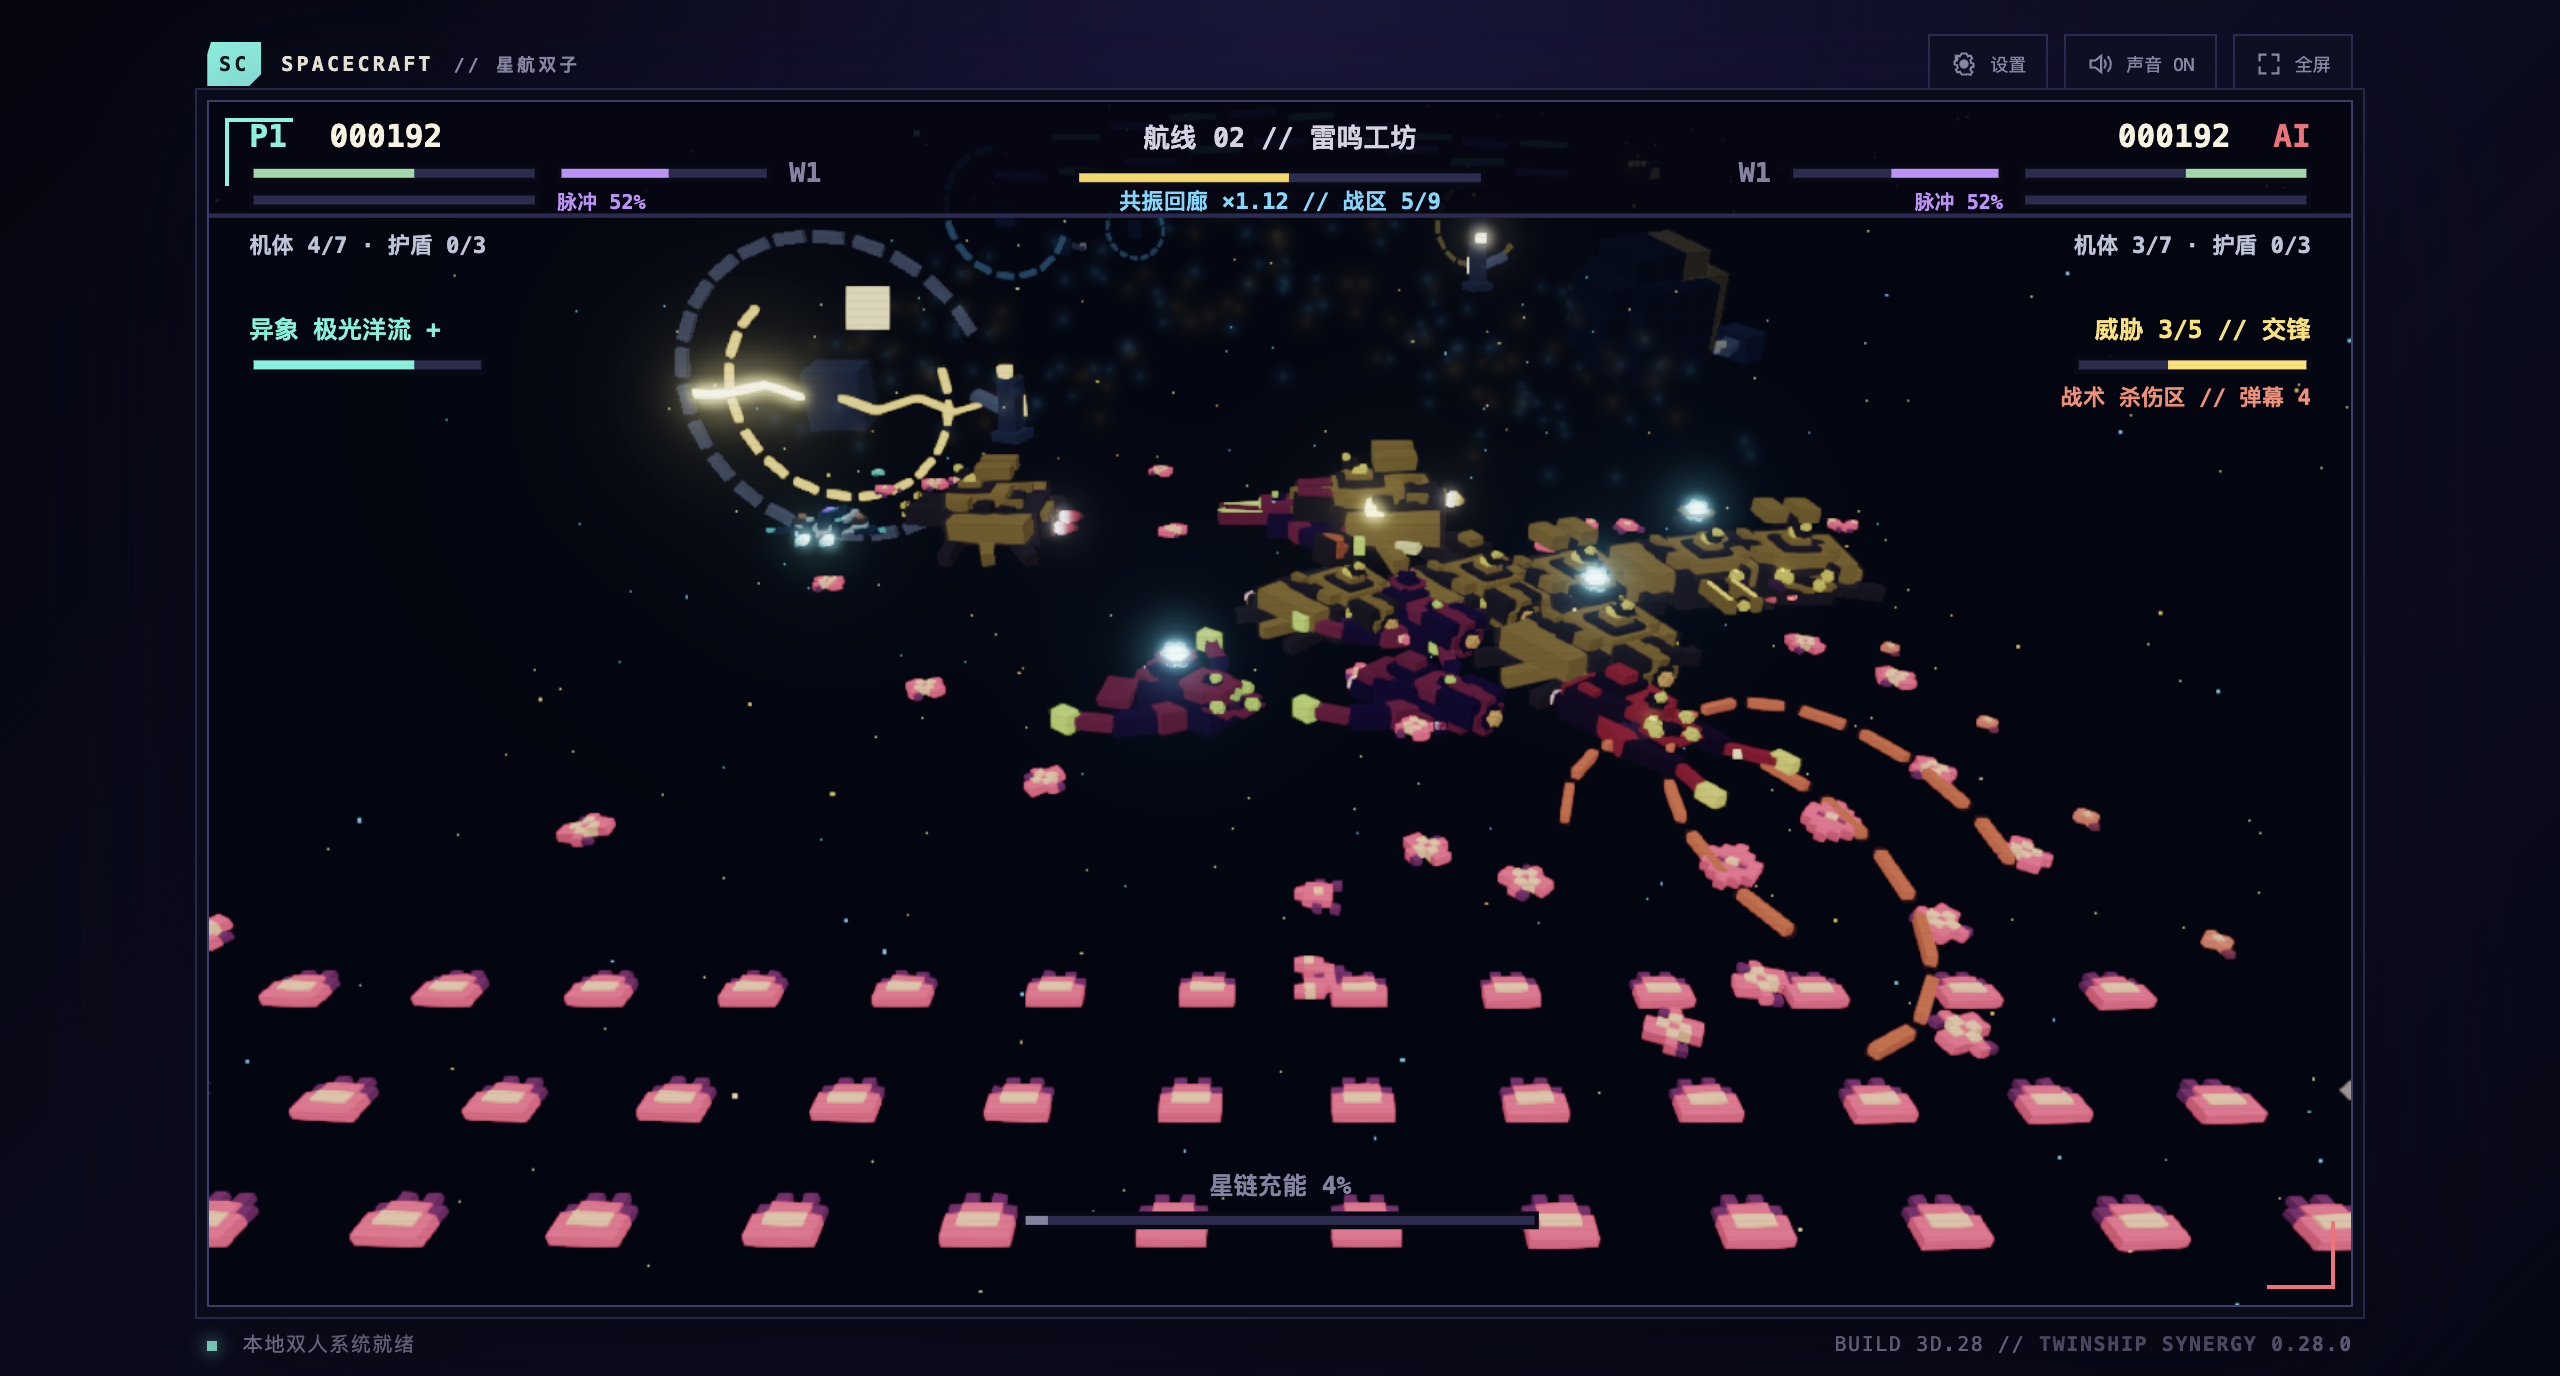
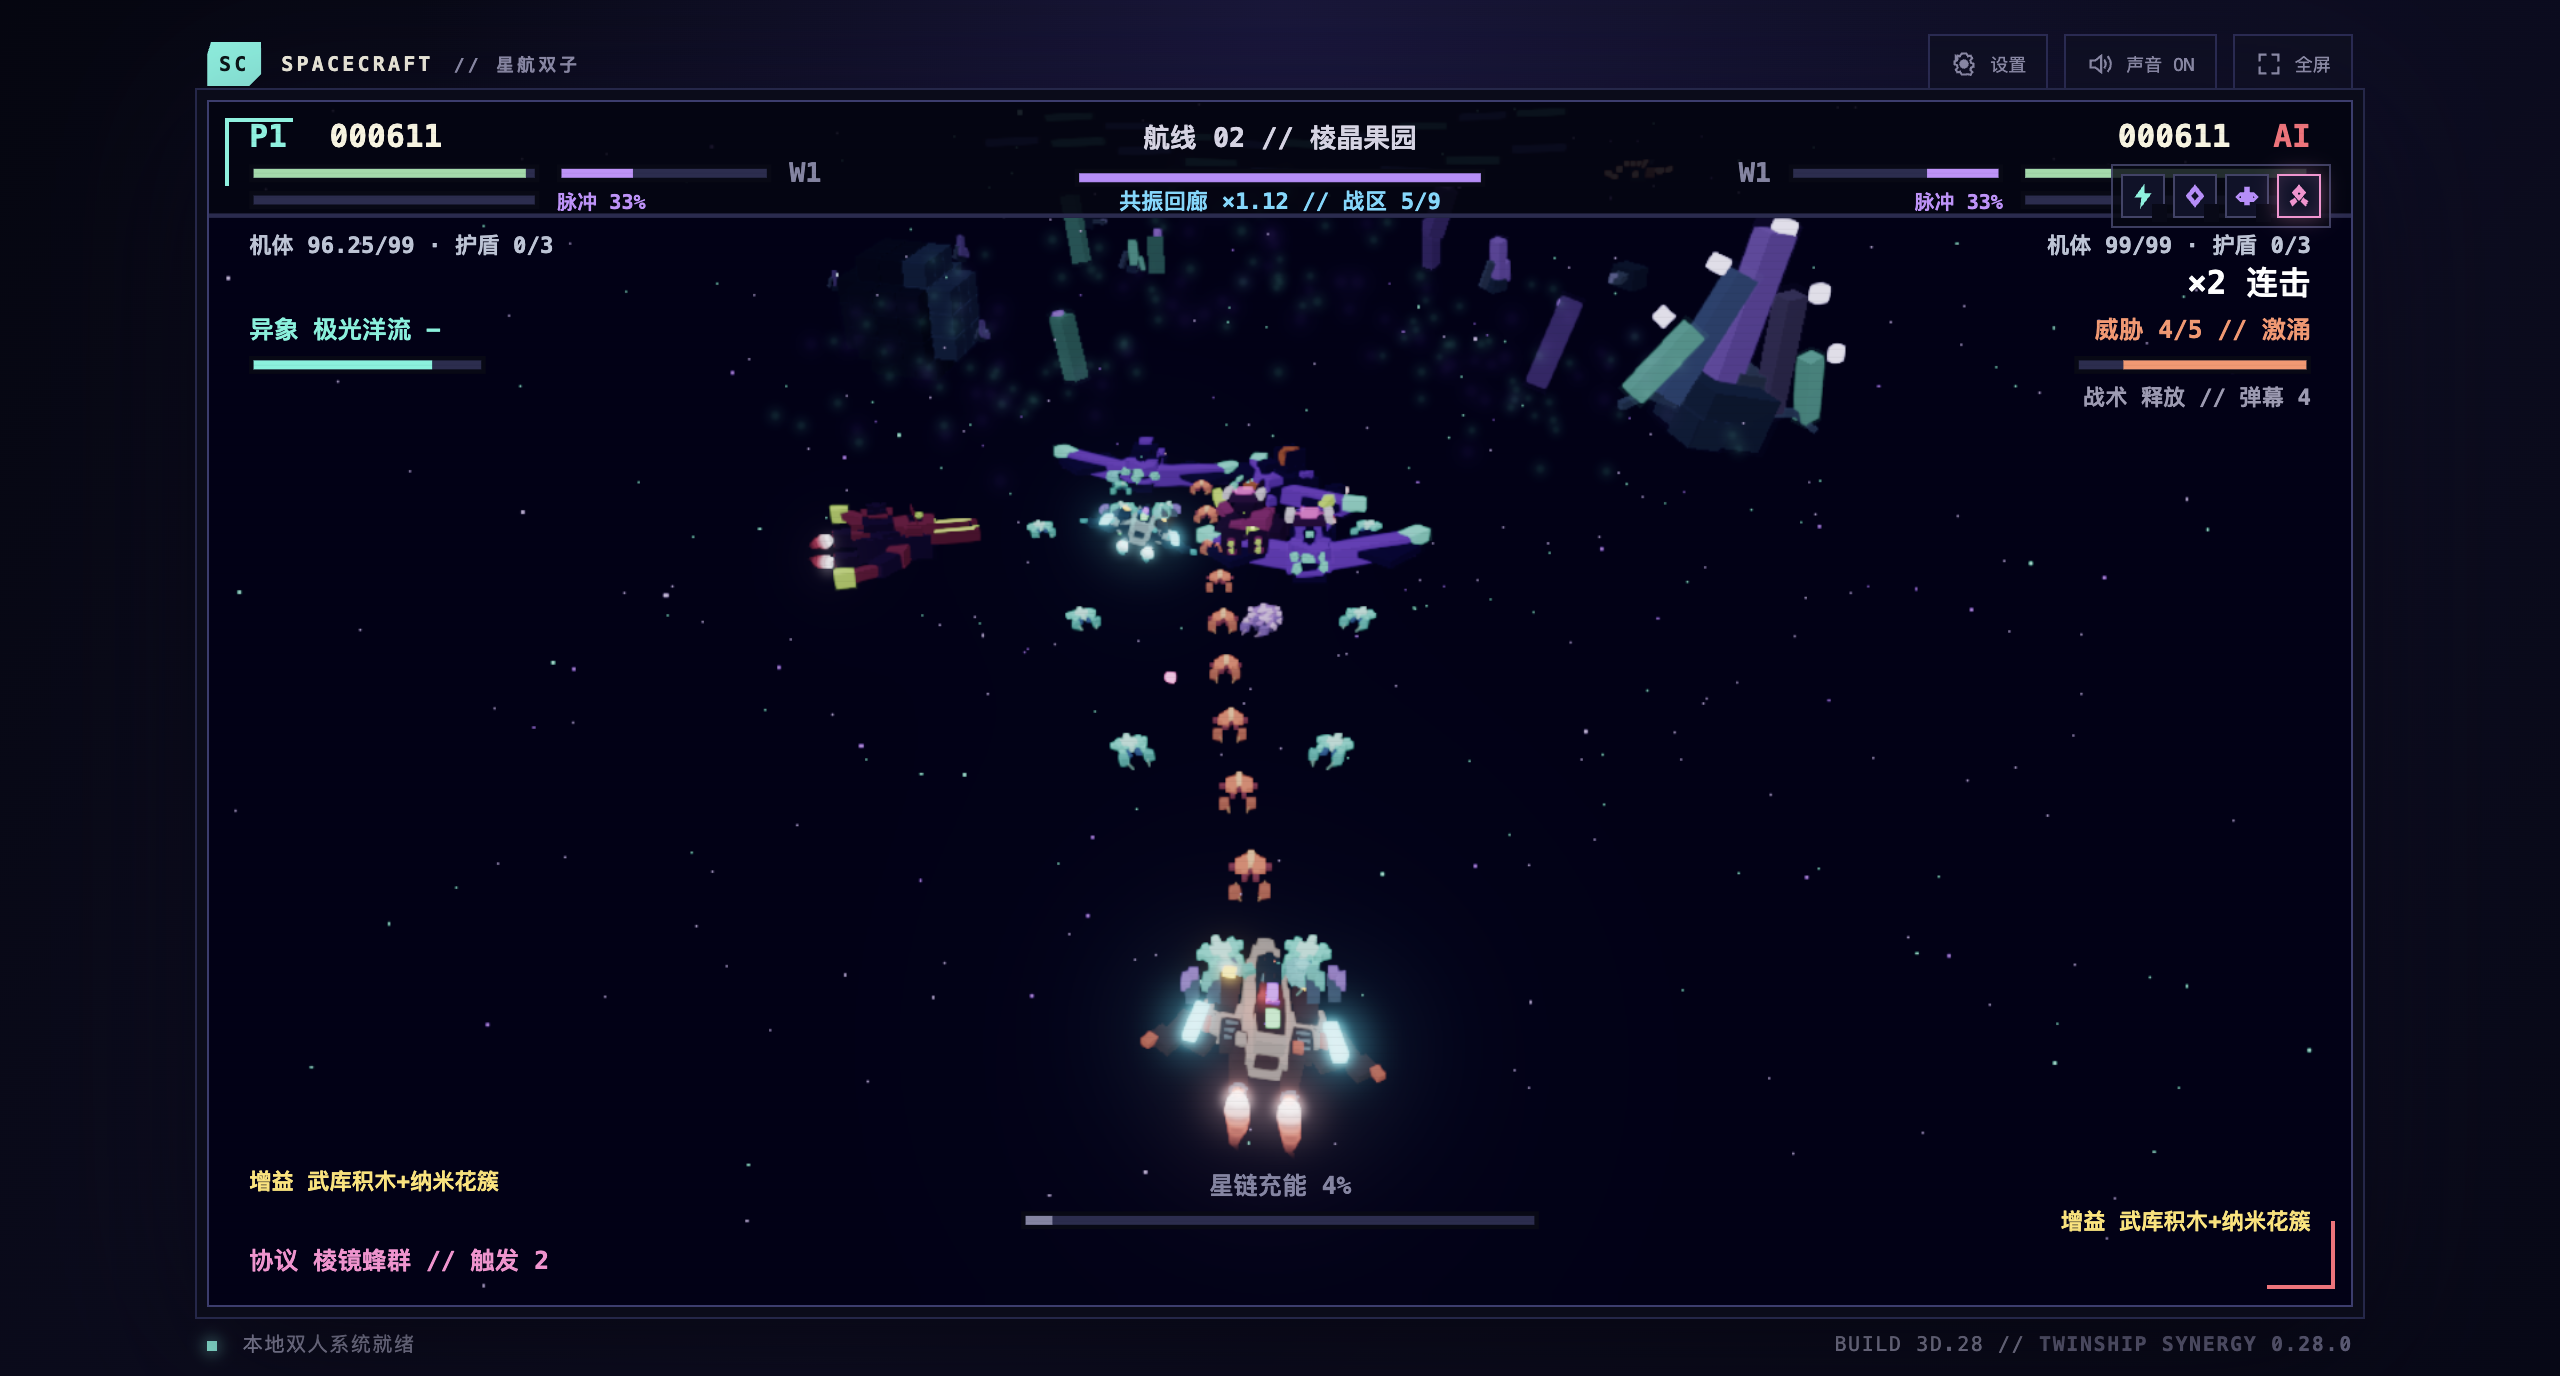
docs: showcase maxed combat builds

diff --git a/CHANGELOG.md b/CHANGELOG.md
@@ -1,5 +1,15 @@
 # 更新日志
 
+## 0.28.0 — 双子协同 / Twinship Synergy（2026-09-18）
+
+- AI 僚机接入真实威胁场，在救援、集火、任务和拾取前评估多类弹体、激光、冲撞、爆破、陨石与敌机身体，并允许高危闪避临时接管移动。
+- 敌军移动与机头朝向解耦，统一连续战术控制器与独立武器状态；新增有限预测、空位选择、避让和提前躲弹的稀有自适应芯片，不额外增加数值强度。
+- 星链加入基础有限净空、充能保留、近身余效及“折光护网”“Nova 回响”自动任务卡，卡池扩为 23 张。
+- 护盾与连续像素激光读取真实入射、伤害、宽度、身份和载荷数据，补齐分级粒子、辉光与实时 8-bit 音色。
+- GitHub 首页增加中英简介、三段 5 秒实机 GIF、截图、下载入口、操作说明与平台提示；素材可通过 `npm run capture:readme` 从当前 WebGL 游戏重新生成。
+- 新增稳定桌面发行工作流：Windows x64 安装器/免安装 ZIP，Apple Silicon macOS arm64 DMG/ZIP，包内 WebGL 启动冒烟与逐平台 SHA-256 清单。
+- 修复旧 Windows CI 的错误失败：测试先用正式 `file://` 检查同一 ASAR，再通过 localhost-only 快速模式完成航线与战斗，不再因无显示器时的 `requestAnimationFrame` 节流停在 0 秒；Squirrel 生命周期也在创建窗口前处理。
+
 ## 2026-09-15 — 未发布：友方 AI 威胁场与优先级重排
 
 Major 主题：僚机先处理真实威胁，再执行救援、续航、任务、集火、共振和顺路拾取。生产 `aiPilotControls` 拆为对称队友解析、战略目标选择和威胁场评估三层；普通弹、制动弹、曲线弹、弹墙、锁定追踪弹、种雷、移动爆破种、锚定死亡爆点、激光预警/实体束、冲撞走廊、敌机身体和陨石都会参与闪避向量。补给按落点风险扣分，目标吸引力封顶，避免远处奖励压过近身弹幕。
@@ -835,12 +845,3 @@ Major 主题：用功能器官、阶梯甲片和状态驱动动画强化复古 3
 
 - 建立三章双人合作射击原型。
 - 加入实时 8-bit 配乐、Boss、升级、救援、连击与共振机制。
-# 0.28.0 — 双子协同 / Twinship Synergy（2026-09-18）
-
-- AI 僚机接入真实威胁场，在救援、集火、任务和拾取前评估多类弹体、激光、冲撞、爆破、陨石与敌机身体，并允许高危闪避临时接管移动。
-- 敌军移动与机头朝向解耦，统一连续战术控制器与独立武器状态；新增有限预测、空位选择、避让和提前躲弹的稀有自适应芯片，不额外增加数值强度。
-- 星链加入基础有限净空、充能保留、近身余效及“折光护网”“Nova 回响”自动任务卡，卡池扩为 23 张。
-- 护盾与连续像素激光读取真实入射、伤害、宽度、身份和载荷数据，补齐分级粒子、辉光与实时 8-bit 音色。
-- GitHub 首页增加中英简介、实机 GIF/截图、下载入口、操作说明与平台提示；素材可通过 `npm run capture:readme` 从当前 WebGL 游戏重新生成。
-- 新增稳定桌面发行工作流：Windows x64 安装器/免安装 ZIP，Apple Silicon macOS arm64 DMG/ZIP，包内 WebGL 启动冒烟与逐平台 SHA-256 清单。
-- 修复旧 Windows CI 的错误失败：测试先用正式 `file://` 检查同一 ASAR，再通过 localhost-only 快速模式完成航线与战斗，不再因无显示器时的 `requestAnimationFrame` 节流停在 0 秒；Squirrel 生命周期也在创建窗口前处理。

diff --git a/docs/PROJECT-STATE.md b/docs/PROJECT-STATE.md
@@ -4,7 +4,7 @@
 
 Major 主题：让访客能在第一屏理解游戏、看到真实玩法并下载可运行的完整桌面包。版本提升到 0.28.0「双子协同」，汇总 0.27.0 快照后的友方 AI 威胁场、敌军连续飞行/自适应芯片、星链任务卡、护盾与连续像素激光反馈；不新增战斗按键，不改存档结构或首章数值。
 
-README 已改为中英简介、真实 WebGL GIF/截图、操作表、平台下载与签名提示；素材由 `npm run capture:readme` 在 localhost QA 隔离下生成，本轮实际输出 30 帧/5 秒 GIF、战斗英雄图和机库图，零页面控制台错误。仓库发行工作流改为 Ubuntu 集中验证，并为 Windows x64 与 Apple Silicon macOS arm64 构建；目标产物为 Windows 安装器/免安装 ZIP、M 系列 Mac DMG/ZIP 及逐平台 SHA-256 清单。
+README 已改为中英简介、真实 WebGL GIF/截图、操作表、平台下载与签名提示；素材由 `npm run capture:readme` 在 localhost QA 隔离下生成，本轮实际输出终阶军械齐射、星链狂潮和共享 Nova 三段 5 秒 GIF，以及战斗英雄图和机库图。三段均确认双机存活、满级展示构筑生效、对应自动技能触发且零页面控制台错误；GIF 压缩为 720 像素宽、8 FPS、96 色以控制首页体积。仓库发行工作流改为 Ubuntu 集中验证，并为 Windows x64 与 Apple Silicon macOS arm64 构建；目标产物为 Windows 安装器/免安装 ZIP、M 系列 Mac DMG/ZIP 及逐平台 SHA-256 清单。
 
 旧 Windows 工作流的两次失败已定位为冒烟脚本停在开场航线选择且无显示器时 `requestAnimationFrame` 仅约 1 FPS；日志中的菜单、Three.js WebGL2 与资源加载实际成功。新冒烟先以正式 `file://` 打开同一 ASAR，检查包内资源、菜单/机库/设置和英文切换；随后只在测试进程的 `127.0.0.1` 映射该 ASAR，使用现有 localhost-only 快速模式完成航线与战斗，检查双机存活和自动开火。增加 `electron-squirrel-startup` 处理安装/更新/卸载事件；免安装 ZIP 保留完整运行目录。
 

diff --git a/README.md b/README.md
@@ -14,7 +14,7 @@
 **[下载 Windows / macOS 最新稳定版](https://github.com/quater782/spacescraft/releases/latest)** · [查看更新日志](CHANGELOG.md) · [开发者文档](docs/README.md)
 </div>
 
-![SPACECRAFT 实机战斗：双机在 3D 体素深空中自动射击并躲避弹幕](docs/media/gameplay.gif)
+![SPACECRAFT 终阶卡牌构筑：双机在棱晶星域释放满级重炮、折射弹幕与无人机齐射](docs/media/capstone-barrage.gif)
 
 ## 这是什么？ // What is it?
 
@@ -27,6 +27,15 @@ SPACECRAFT is an offline, pixel-styled WebGL 3D co-op shooter. Players steer whi
 - **每局可构筑 // Build every run:** 四条成长路线、23 张升级卡、7 种双组件遗物协议、三种机体与四枚核心模组。
 - **会读局势的战场 // Reactive battlefield:** 三章九战区、动态遭遇、Boss、多类弹幕、自适应威胁与拥有独立战术/武器状态的敌军。
 - **完整双语与 8-bit 声场 // Bilingual & synthesized audio:** 简体中文/English 即时切换；音乐和音效由 Web Audio 实时合成。
+
+## 满级构筑实战 // Maxed-out builds
+
+以下均为当前版本的真实 WebGL 3D 实机录制：双机保持存活，战斗技能仍然全部自动触发。<br>
+Captured from the current WebGL 3D build—with both pilots alive and every combat skill firing automatically.
+
+| 终阶军械齐射 // Capstone barrage | 星链狂潮 // Starlink Rush | 共享 Nova // Shared Nova |
+| --- | --- | --- |
+| ![满级重炮、棱镜与无人机卡牌同时触发](docs/media/capstone-barrage.gif) | ![满级构筑在彗潮战区触发星链狂潮](docs/media/starlink-rush.gif) | ![终章 Boss 战中自动释放共享 Nova](docs/media/shared-nova.gif) |
 
 ## 实机画面 // In-game
 

diff --git a/docs/DEVELOPMENT.md b/docs/DEVELOPMENT.md
@@ -2,7 +2,7 @@
 
 ## GitHub 首页素材
 
-运行 `npm run capture:readme` 会在隔离存档、localhost QA 参数与真实 Electron/WebGL 中生成 `docs/media/gameplay.gif`、`gameplay-hero.png` 和 `hangar.png`。需要本机安装 `ffmpeg`；脚本录制 30 帧实机战斗并检查页面控制台错误，不替代正常速度难度验收。
+运行 `npm run capture:readme` 会在隔离存档、localhost QA 参数与真实 Electron/WebGL 中生成终阶军械齐射、星链狂潮和共享 Nova 三段约 5 秒的首页 GIF，以及 `gameplay-hero.png` 和 `hangar.png`。三段战斗各录制 45 帧，并检查双机存活、终阶军械卡完整生效、对应自动技能触发与页面控制台错误。需要本机安装 `ffmpeg`；此素材流程不替代正常速度难度验收。
 
 ## 2026-09-15 友方 AI 威胁场与优先级
 

diff --git a/docs/RELEASE-0.28.0.md b/docs/RELEASE-0.28.0.md
@@ -23,7 +23,7 @@
 
 ## 首页与项目运营
 
-- GitHub 首页改为中英双语首屏简介、玩法 GIF、实机截图、平台下载指引、操作表与当前版本摘要。
+- GitHub 首页改为中英双语首屏简介，并加入终阶军械齐射、星链狂潮、共享 Nova 三段 5 秒实机 GIF、静态截图、平台下载指引、操作表与当前版本摘要。
 - GIF 与截图由当前 WebGL/Electron 实机生成；运行 `npm run capture:readme` 可重新生成素材。
 - 仓库简介与 Topics 对齐“只需移动、自动战斗、本地合作、WebGL 3D”的核心定位。
 
